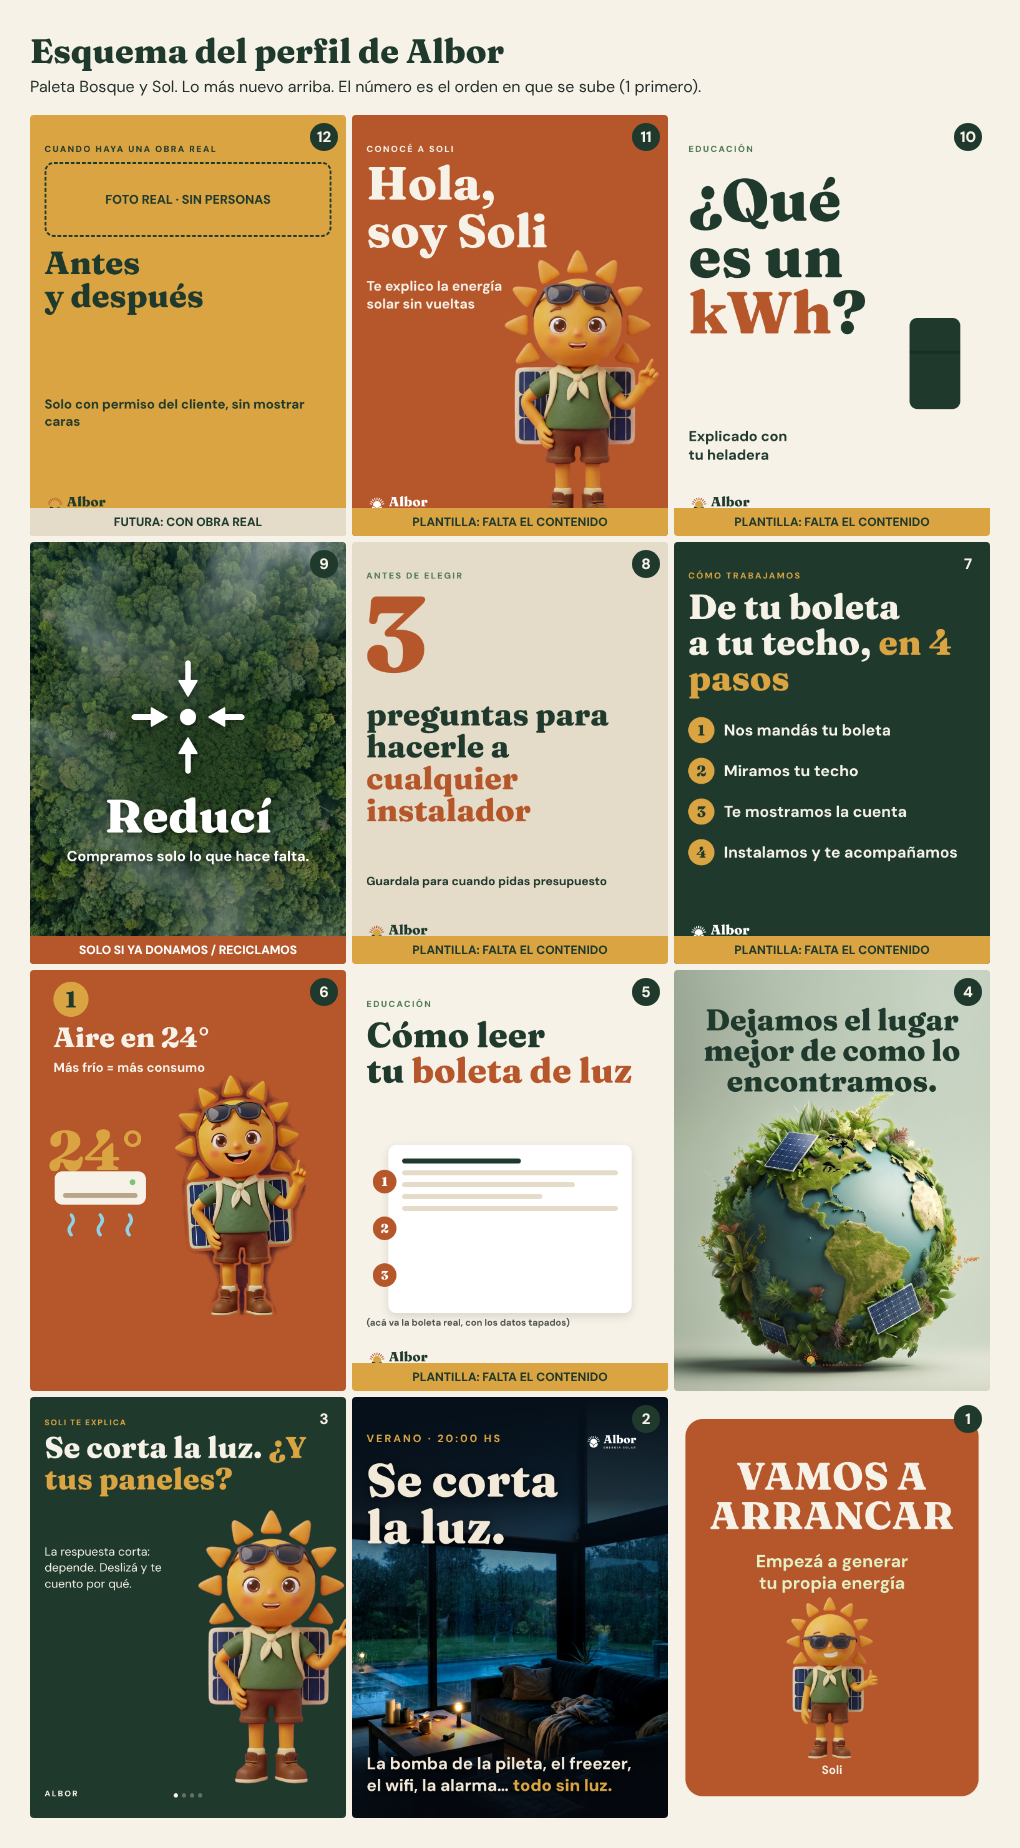
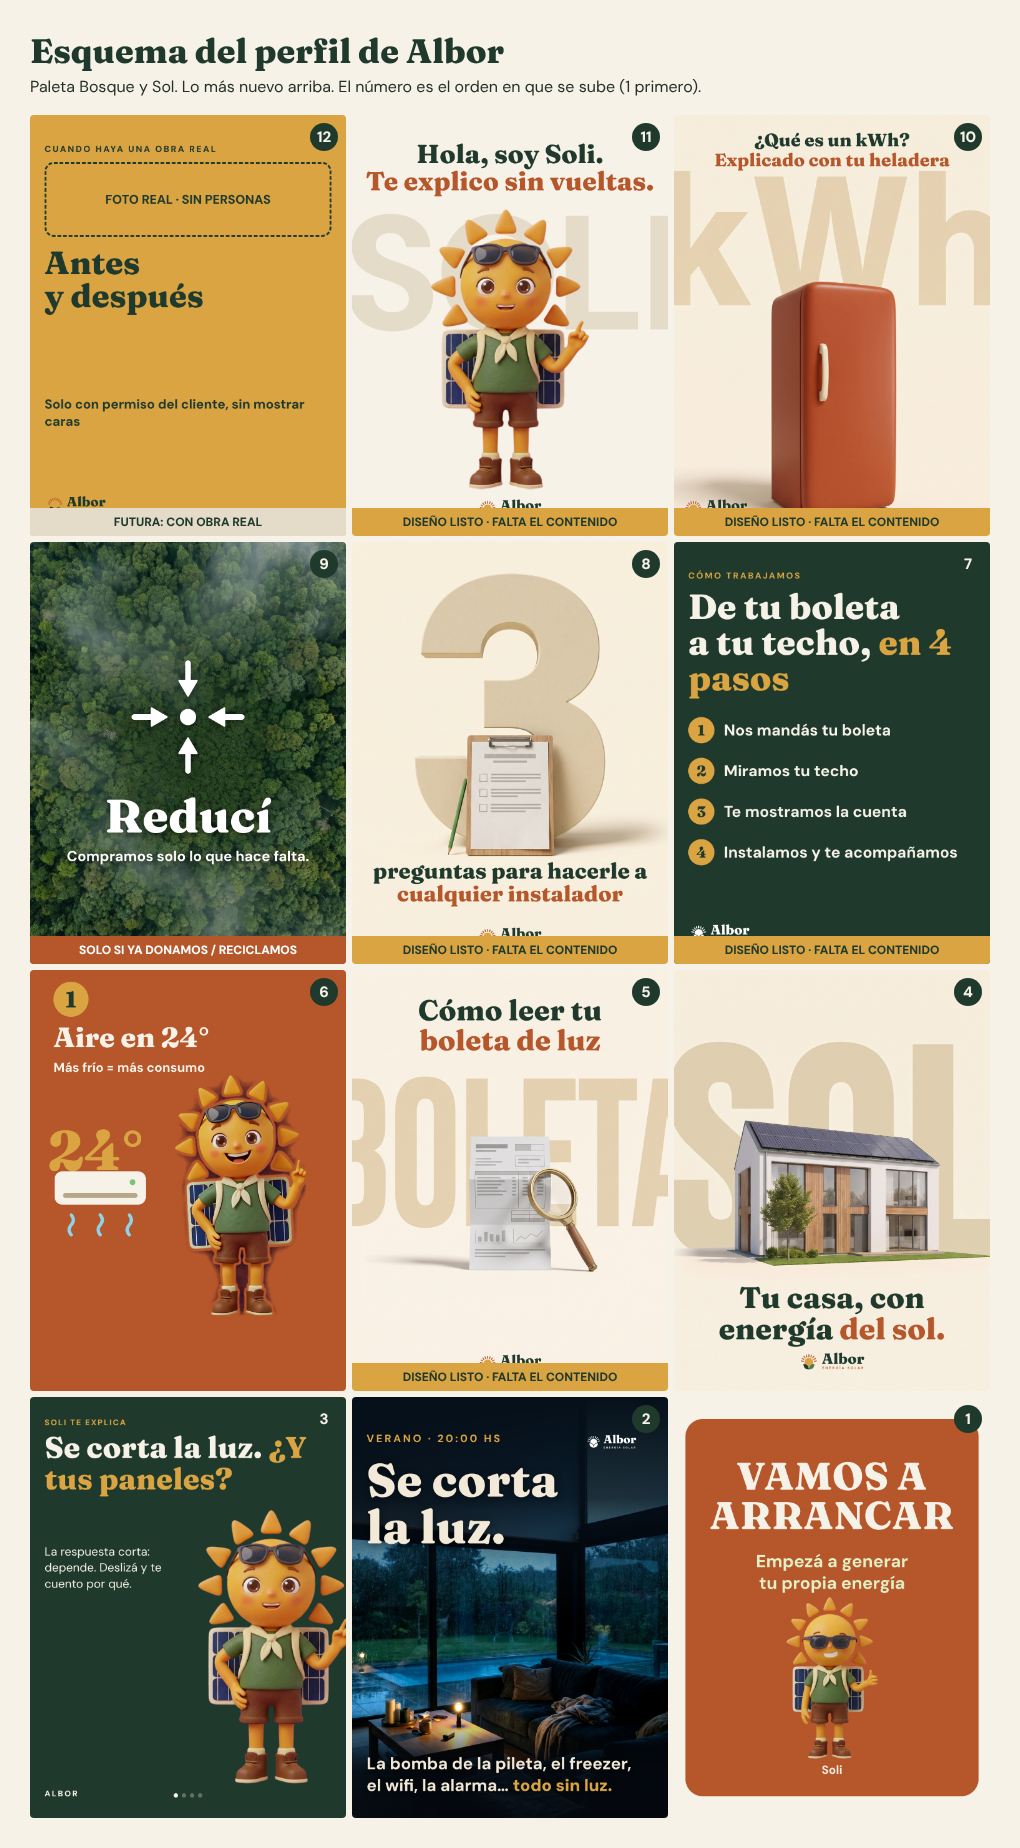
Estilo objeto 3D con palabra gigante: piezas de boleta, kWh, 3 preguntas y Soli; grilla actualizada
Claude-Session: https://claude.ai/code/session_015VwBMxPwuVr7ic6oajVYze

Changed region(s): [[0.3343, 0.0617, 0.9725, 0.7711], [0.5471, 0.7403, 0.5775, 0.7711]]

diff --git a/06-marketing/feed/estilo-3d/generar.js b/06-marketing/feed/estilo-3d/generar.js
@@ -1,0 +1,25 @@
+// Piezas del estilo "objeto 3D + palabra gigante" (paleta Bosque y Sol). Correr: NODE_PATH=$(npm root -g) node generar.js
+const { chromium } = require('playwright'); const path = require('path'); const fs = require('fs');
+const U = p => 'file://' + path.resolve(__dirname, p);
+const C = { pino: '#1F3A2D', sol: '#D9A441', terra: '#B5562B', arena: '#E4DCC8', crema: '#F7F2E7' };
+const base = (bg, inner, logoLeft) => `<meta charset=utf-8><style>
+@font-face{font-family:Fr;src:url(${U('../../soli/fuentes/Fraunces-800.woff2')});font-weight:100 900}
+@font-face{font-family:DM;src:url(${U('../../soli/fuentes/DMSans-700.woff2')});font-weight:100 900}
+*{margin:0;box-sizing:border-box}body{width:1080px;height:1350px;position:relative;overflow:hidden;font-family:DM;${bg}}
+h1{position:absolute;left:60px;right:60px;text-align:center;font:800 92px/1.04 Fr;color:${C.pino}}h1 em{font-style:normal;color:${C.terra}}
+.logo{position:absolute;bottom:56px;height:68px;${logoLeft ? 'left:60px' : 'left:50%;transform:translateX(-50%)'}}${inner.css || ''}</style>${inner.html}<img class=logo src="${U('../../logo/albor/vectorial/logo-horizontal-color.svg')}">`;
+const img = f => `background:url(${U(f)}) center/cover`;
+const P = {
+ 'boleta-como-leer': base(img('fondo-boleta.jpg'), { css: 'h1{top:80px}', html: '<h1>Cómo leer tu<br><em>boleta de luz</em></h1>' }),
+ 'kwh-que-es': base(img('fondo-kwh.jpg'), { css: 'h1{top:48px;font-size:58px;line-height:1.1}', html: '<h1>¿Qué es un kWh?<br><em>Explicado con tu heladera</em></h1>' }, true),
+ 'tres-preguntas': base(img('fondo-tres.jpg'), { css: 'h1{top:1015px;font-size:70px}', html: '<h1>preguntas para hacerle a<br><em>cualquier instalador</em></h1>' }),
+ 'soli-presentacion': base(`background:${C.crema}`, { css: `.w{position:absolute;left:-30px;right:-30px;top:250px;text-align:center;font:800 520px/1 DM;color:${C.arena};letter-spacing:-.04em}.s{position:absolute;left:50%;transform:translateX(-50%);bottom:150px;height:900px}h1{top:80px;font-size:84px}`, html: `<div class=w>SOLI</div><img class=s src="${U('../../soli/soli-explica.png')}"><h1>Hola, soy Soli.<br><em>Te explico sin vueltas.</em></h1>` }),
+};
+(async () => {
+  const b = await chromium.launch(); const pg = await b.newPage({ viewport: { width: 1080, height: 1350 } });
+  for (const [n, html] of Object.entries(P)) {
+    const f = path.join(__dirname, '_t.html'); fs.writeFileSync(f, html); await pg.goto('file://' + f); await pg.evaluate(() => document.fonts.ready);
+    await pg.screenshot({ path: path.join(__dirname, n + '.png') }); fs.unlinkSync(f);
+  }
+  await b.close();
+})();

diff --git a/06-marketing/feed/grilla.js b/06-marketing/feed/grilla.js
@@ -5,18 +5,18 @@ const T = [
   { n: 1, img: '../publicaciones/vamos-a-arrancar/vamos-a-arrancar-terracota-1080x1350.png', t: 'Vamos a arrancar', st: 'ok' },
   { n: 2, img: '../anuncio-corte-verano/paso4-v2-mejorada.png', t: 'Se corta la luz', st: 'ok' },
   { n: 3, img: '../soli/carrusel-corte/lamina-1.png', t: 'Soli: ¿y tus paneles? (carrusel)', st: 'ok' },
-  { n: 4, img: 'portadas/04-lugar-mejor.png', t: 'Dejamos el lugar mejor', st: 'ok' },
-  { n: 5, img: 'portadas/05-como-leer-tu-boleta.png', t: 'Cómo leer tu boleta', st: 'tpl' },
+  { n: 4, img: '../feed/prueba-estilo-3d/prueba-1-casa-palabra-gigante.png', t: 'Tu casa, con energía del sol', st: 'ok' },
+  { n: 5, img: 'estilo-3d/boleta-como-leer.png', t: 'Cómo leer tu boleta', st: 'tpl' },
   { n: 6, img: 'reel-portada.png', t: 'Reel: 4 trucos', st: 'ok' },
   { n: 7, img: 'portadas/07-como-trabajamos.png', t: 'Cómo trabajamos', st: 'tpl' },
-  { n: 8, img: 'portadas/08-tres-preguntas.png', t: '3 preguntas', st: 'tpl' },
+  { n: 8, img: 'estilo-3d/tres-preguntas.png', t: '3 preguntas', st: 'tpl' },
   { n: 9, img: '../publicaciones/carrusel-3r/imagen-1-reduce.png', t: 'Reducí · Reutilizá · Reciclá', st: 'cond' },
-  { n: 10, img: 'portadas/10-que-es-un-kwh.png', t: 'Qué es un kWh', st: 'tpl' },
-  { n: 11, img: 'portadas/11-soli-quien-es.png', t: 'Soli, quién es', st: 'tpl' },
+  { n: 10, img: 'estilo-3d/kwh-que-es.png', t: 'Qué es un kWh', st: 'tpl' },
+  { n: 11, img: 'estilo-3d/soli-presentacion.png', t: 'Soli, quién es', st: 'tpl' },
   { n: 12, img: 'portadas/12-obra-real.png', t: 'Obra real', st: 'fut' },
 ];
 const orden = [[12, 11, 10], [9, 8, 7], [6, 5, 4], [3, 2, 1]];
-const lab = { ok: '', tpl: 'PLANTILLA: FALTA EL CONTENIDO', cond: 'SOLO SI YA DONAMOS / RECICLAMOS', fut: 'FUTURA: CON OBRA REAL' };
+const lab = { ok: '', tpl: 'DISEÑO LISTO · FALTA EL CONTENIDO', cond: 'SOLO SI YA DONAMOS / RECICLAMOS', fut: 'FUTURA: CON OBRA REAL' };
 const tile = x => `<div class=t style="background:url(${U(x.img)}) center/cover"><span class=n>${x.n}</span>${lab[x.st] ? `<span class="tg ${x.st}">${lab[x.st]}</span>` : ''}</div>`;
 const html = `<meta charset=utf-8><style>
 @font-face{font-family:Fr;src:url(${U('../soli/fuentes/Fraunces-800.woff2')});font-weight:100 900}

diff --git a/06-marketing/feed/esquema-feed.md b/06-marketing/feed/esquema-feed.md
@@ -28,3 +28,9 @@ Nunca dos publicaciones del mismo color una al lado de la otra (ni arriba ni aba
 ## Cómo se hace cada una
 1. Cambiar el contenido en `portadas/` (o pedirle a Claude el contenido real: boleta, preguntas, kWh).
 2. Para las que faltan: la 5 necesita una boleta real; la 12 necesita una obra real; la 9 necesita las donaciones/reciclaje definidos.
+
+## Estilo nuevo elegido por el dueño (29/10): "objeto 3D + palabra gigante"
+- Fondo crema liso, **una palabra enorme en arena** detrás (SOL, BOLETA, kWh, el número 3, SOLI), **un objeto 3D realista** delante (casa con paneles, boleta con lupa, heladera terracota, carpeta con lista) y un **titular corto en pino y terracota**. Logo centrado abajo.
+- Piezas hechas (en `estilo-3d/` y `prueba-estilo-3d/`): casa "Tu casa, con energía del sol" (publicación 4), cómo leer tu boleta (5), 3 preguntas (8), qué es un kWh (10), Soli (11). Mismo estilo, para reemplazar o sumar a las plantillas planas.
+- Los fondos se generan con APIMart (~0,02 c/u) pidiendo la palabra gigante en la imagen; **hay que revisar que la palabra se lea bien** (a veces la IA deforma letras). El texto del titular lo pone el código.
+- Alternar este estilo (claro) con las fotos oscuras del dolor y las piezas de color plano.

diff --git a/00-empresa/bitacora.md b/00-empresa/bitacora.md
@@ -73,3 +73,4 @@ Resumen de lo hecho, para retomar en cualquier sesión nueva. Lo más reciente a
 - 29/10: paleta Bosque y Sol aplicada: logo regenerado, carrusel de Soli y 'Vamos a arrancar' regenerados con Albor, esquema del feed (grilla y plantillas) en 06-marketing/feed/. El reel se está rehaciendo en la paleta nueva.
 - 29/10: reel de los 4 trucos rehecho en la paleta Bosque y Sol (pino y terracota).
 - 29/10: prueba de estilo 'objeto 3D + palabra gigante' (inspirado en el perfil de referencia, en paleta Bosque y Sol): 3 piezas en 06-marketing/feed/prueba-estilo-3d/. Costo APIMart ~0,08. Decisión pendiente del dueño: si se suma al esquema.
+- 29/10: al dueño le encantó el estilo 'objeto 3D + palabra gigante'. Hechas 5 piezas en ese estilo (4, 5, 8, 10, 11); grilla actualizada.
